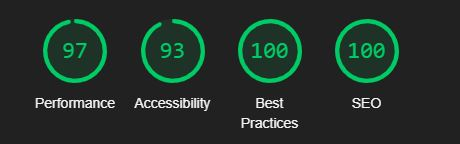
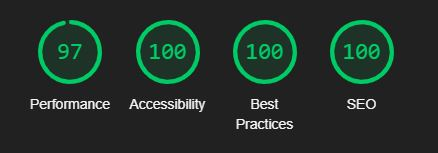
replace screenshots of desktop lighthouse score with accessability score fixed

diff --git a/TESTING.md b/TESTING.md
@@ -101,7 +101,7 @@ Contrast error found on disabled button. Due to the buttons not being accessible
 There was also an accessability issue found due to the label for the pin jobs toggle. setting this to display none, and adding some text in the tags resolved this.
 
 # Lighthouse
-During the lighthouse test I found some reduction to the Accessibility score on pages with a toggle switch. The error was "Form elements do not have associated labels". This was left unfix however as according to the accessability checker above this was no longer an issue after visually hiding the label with a description in. 
+During the lighthouse test I found some reduction to the Accessibility score on pages with a toggle switch. The error was "Form elements do not have associated labels". This was fixed by adding an aria-label to the pin jobs toggle. 
 
 The lighthouse score also confirmed the poor contrast scores on the nav bar items that are disabled when signed out.
 
@@ -146,14 +146,17 @@ The lighthouse score also confirmed the poor contrast scores on the nav bar item
 ## Add Insights Page
 #### *Desktop*:
 ![add insights score](docs/images/lighthouse/add-insight.JPG)
+* Reduction in accessability score due to no title on the summernote iframe. 
 
 ## Edit Notes Page
 #### *Desktop*:
 ![edit note score](docs/images/lighthouse/edit-note.JPG)
+* Reduction in accessability score due to no title on the summernote iframe. 
 
 ## Add Job Page
 #### *Desktop*:
 ![add job score](docs/images/lighthouse/add-job.JPG)
+* Reduction in accessability score due to no title on the summernote iframe. 
 
 ## Sign Out Page
 #### *Desktop*:
@@ -162,7 +165,9 @@ The lighthouse score also confirmed the poor contrast scores on the nav bar item
 ## Sign in Page
 #### *Desktop*:
 ![sign in score](docs/images/lighthouse/sign-in.JPG)
+* Reduction in accessability score due to Contrast on disabled navbar buttons
 
 ## Sign up Page
 #### *Desktop*:
 ![sign up score](docs/images/lighthouse/register.JPG)
+* Reduction in accessability score due to Contrast on disabled navbar buttons
